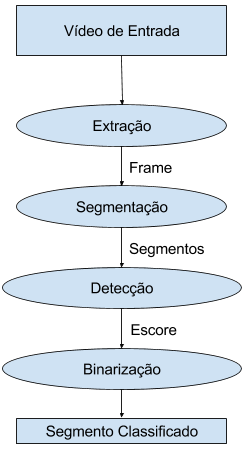
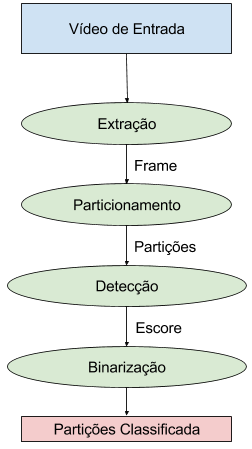
Trocando o termo "segmento" por "partição" em todo o documento, para evitar confusão com o termo "segmentação", conforme já é usado em PDI.

diff --git a/src/capitulo4.tex b/src/capitulo4.tex
@@ -18,9 +18,9 @@ equivalente a uma imagem 2D, e pode ser representada por tensores de dimensões
 \sigla{HWC}{\emph{Height X Width X Channel}, algura X largura X canal} (largura, altura e canais de cor). Todos os frames de um mesmo vídeo geram
 tensores do mesmo tamanho.
 
-O processo “segmentação” toma como entrada uma frame do vídeo e gera múltiplas
-sub-imagens aqui denominados “segmentos”, gerados através de um recorte
-retangular de pixels contíguos. Os segmentos têm dimensões compatíveis com a
+O processo “fatiamento” toma como entrada uma frame do vídeo e gera múltiplas
+sub-imagens aqui denominadas “partições”, geradas através de um recorte
+retangular de pixels contíguos. As partições têm dimensões compatíveis com a
 rede neural que será usada no passo seguinte.
 
 A etapa denominada “rede neural” é, mais especificamente, uma rede neural
@@ -28,32 +28,33 @@ artificial convolucional profunda treinada para modelar uma função escalar cuj
 valor, denominado “escore”, é determinado pela presença e posição, ou não
 presença, de uma placa veicular.
 
-A etapa “binarização” estima, a partir do resultado da rede neural, se um
-segmento possui uma placa de trânsito.
+A etapa “binarização” estima, a partir do resultado da rede neural, se uma
+partição possui uma placa de trânsito.
 
 Este processo envolve algumas decisões que são parte fundamental da atual
 proposta. Elas dizem respeito:
 
 \begin{itemize}
-\item ao tamanho dos segmentos de imagem a serem recortados e, por
+\item ao tamanho das partições de imagem a serem recortadas e, por
 	consequência, ao tamanho da entrada da rede neural;
-\item a escolha do stride dos segmentos da rede neural
+\item a escolha do stride das partições da rede neural
 \item a escolha da função que a rede neural está modelando
 \item a escolha da arquitetura e dos hiperparâmetros da rede neural;
 \end{itemize}
 
-\section{Tamanho dos Segmentos}
-O tamanho dos segmentos definem as dimensões do tensor da rede neural, portanto
+\section{Tamanho das Partições}
+O tamanho das partições definem as dimensões do tensor da rede neural, portanto
 o tamanho do seu “campo visual”.
+
 
 \begin{figure}[!htb]
 	\centering
 	\includegraphics{ex_tres_segmentos.png}
-	\caption{Exemplo de três tamanhos de segmentos}
+	\caption{Exemplo de três tamanhos de partições}
 	\label{fig:ex_tres_segmentos}
-	Em (a) o segmento possui um grande campo visual, porém tem baixa precisão.
+	Em (a) a partição possui um grande campo visual, porém tem baixa precisão.
 	Em (b) há um campo visual muito pequeno para permitir que a rede neural
-	opere corretamente. O terceiro é apropriado, pois é relativamente pequeno e
+	opere corretamente. A terceira é apropriada, pois é relativamente pequena e
 	inclui a placa inteira e vários pixels adicionais, permitindo que a rede
 	neural aprenda o contraste entre placa e o fundo (próprio autor).
 \end{figure}
@@ -66,7 +67,7 @@ o campo visual for muito grande, como na figura \ref{fig:ex_tres_segmentos}a,
 a rede neural terá mais características para usar, mas a precisão da
 localização será muito prejudicada.
 
-De forma geral, as dimensões dos segmentos devem ser minimizados, mas deve-se
+De forma geral, as dimensões das partições devem ser minimizadas, mas deve-se
 garantir que a placa caiba inteira caiba no seu interior, com um pouco de
 sobra. As figuras \ref{fig:ex_tres_segmentos}c e \ref{fig:ex_placa} mostram
 um bom tamanho. A região adicional fora da placa vai servir para a rede
@@ -79,12 +80,12 @@ veículos.
 \begin{figure}[!htb]
 	\centering
 	\includegraphics{ex_placa.png}
-	\caption{Exemplo de segmento com bom tamanho}
+	\caption{Exemplo de partição com bom tamanho}
 	\label{fig:ex_placa}
 	(próprio autor).
 \end{figure}
 
-\section{Strides dos Segmentos}
+\section{Strides das Partições}
 A abordagem que está sendo proposta envolve usar um detector para construir um
 localizador. Uma implementação ingênua desta abordagem seria treinar o detector
 para detectar placas de trânsito que estejam centradas na sua entrada e aplicar
@@ -101,30 +102,30 @@ que ser aplicado $N$ vezes, onde:
 
 Para um detector com dimensões \sigla{HW}{\emph{Height X width}, algura X
 largura} de $40 \times 120$ em uma imagem
-$480 \times 768$ seriam gerados 286.209 segmentos, e cada um deles precisaria
-ser aplicado pelo detector, o que é proibitivo.
+$480 \times 768$ seriam geradas 286.209 partições, e cada uma delas precisaria
+ser aplicada ao detector, o que é proibitivo.
 
 Para resolver este problema propõe-se o uso de um stride de
-$50\% \times 50\%$ do tamanho do segmento. Isso significa que duas amostras
+$50\% \times 50\%$ do tamanho da partição. Isso significa que duas amostras
 consecutivas em linha tem os seus centros a uma distância igual a sua
-largura sobre dois, gerando segmentos como os ilustrados na figura
+largura sobre dois, gerando partições como as ilustradas na figura
 \ref{fig:ex_3_segmentos}.
 
 \begin{figure}[!htb]
 	\centering
 	\includegraphics{ex_3_segmentos.png}
-	\caption{Ilustração de 3 segmentos sucessivos}
+	\caption{Ilustração de 3 partições sucessivas}
 	\label{fig:ex_3_segmentos}
-	Observar que o centro de um segmento está contido no perímetro dos
-	segmentos vizinhos (próprio autor).
+	Observar que o centro de uma partição está contido no perímetro das
+	partições vizinhas (próprio autor).
 \end{figure}
 
-Uma propriedade dessa escolha é que o centro de um segmento de imagem está
-contido no perímetro de todos os segmentos vizinhos. Esta propriedade é
+Uma propriedade dessa escolha é que o centro de uma partição de imagem está
+contido no perímetro de todas as partições vizinhas. Esta propriedade é
 justamente o objetivo do stride de 50\%, conforme será descrito na sessão
 \ref{ses:funcao_a_modelar}.
 
-O número de segmentos na direção da altura será $T_H$, e na largura será
+O número de particões na direção da altura será $T_H$, e na largura será
 $T_W$, sendo:
 
 \begin{equation}
@@ -135,7 +136,7 @@ $T_W$, sendo:
 	T_W=\left\lfloor \frac{2F_2}{D_2-1} \right\rfloor \\
 \end{equation}
 
-E o  número de segmentos a serem classificados será:
+E o  número de partições a serem classificadas será:
 
 \begin{equation}
 	N=\left\lfloor \frac{2F_1}{D_1-1} \right\rfloor \cdot
@@ -144,13 +145,13 @@ E o  número de segmentos a serem classificados será:
 
 Tomando o mesmo caso calculado anteriormente (detector $40 \times 120$ em
 frames $480 \times 768$ sem extensão de borda) com a estratégia proposta
-de segmentação o número de segmentos a serem classificados cai de 286.209
+de particionamento o número de particões a serem classificadas cai de 286.209
 para $24 \cdot 12=288$.
 
 \section{Função a ser Modelada} \label{ses:funcao_a_modelar}
 
 A rede neural vai ser treinada para modelar o valor de uma função $P$ que
-leva um tensor que representa  um segmento da frame à um real no intervalo
+leva um tensor que representa  uma partição da frame à um real no intervalo
 $[0;1]$:
 
 \begin{equation}
@@ -158,54 +159,56 @@ $[0;1]$:
 \end{equation}
 
 O valor dessa função é resultante da presença de uma placa veicular. Devido ao
-fato de que a segmentação será feita com stride maior que 1 não há garantia de
-que a placa estará centralizada, e ainda assim a função precisa identificar que
-ela está presente.
+fato de que o particionamento será feito com \emph{stride} maior que 1 não há
+garantia de que a placa estará centralizada, e ainda assim a função precisa
+identificar que ela está presente.
 
-A função proposta foi construída baseado na forma com que a placa veicular
-passa de um segmento para o segmento vizinho. A função deve possuir as
+A função proposta foi construída baseada na forma com que a placa veicular
+passa de uma partição para a partição vizinha. A função deve possuir as
 seguintes características:
 
 \begin{itemize}
 \item a função é contínua quando uma placa é movida de forma contínua na
 	entrada por qualquer caminho;
-\item quando a placa veicular está no centro de um segmento a função de
-	saída deve ser 1, e quando está no centro do segmento vizinho deve ser 0;
-\item um, e apenas um segmento deve possuir valor 1 como consequência da
-	presença da placa.
+\item quando a placa veicular está no centro de uma partição a função de
+	saída deve ser 1, e quando está no centro da partição vizinha deve ser 0;
+\item um, e apenas uma partição deve possuir valor 1 como consequência da
+	presença da placa, exceto nos pontos críticos, na vizinhança dos quais a
+	função é menor que 1.
 \end{itemize}
 
 A figura \ref{fig:placa_movida_entre_segmentos} ilustra os pontos principais
-quando uma placa é movida horizontalmente entre dois segmentos.
+quando uma placa é movida horizontalmente entre duas partições.
 
 \begin{figure}[!htb]
 	\centering
 	\includegraphics{placa_movida_entre_segmentos.png}
-	\caption{Placa veicular sendo movida entre dois segmentos}
+	\caption{Placa veicular sendo movida entre duas partições}
 	\label{fig:placa_movida_entre_segmentos}
 	Ilustração dos pontos críticos para a definição da função a ser modelada
-	pela rede neural, mostrando dois segmentos vizinhos, um pintado de verde e
-	o outro amarelo com borda pontilhada. Em (a) a placa está centrada no
-	segmento da esquerda e no perímetro do segmento da direita.
-	Em (b) o centro da placa está no meio caminho entre os centros dos dois
-	segmentos. Em (c) o centro da placa está no centro do segmento da direita e
-	perímetro do segmento da esquerda (próprio autor).
+	pela rede neural, mostrando duas partições vizinhas, uma pintada de verde e
+	o outro amarelo com borda pontilhada. Em (a) a placa está centrada na
+	partição da esquerda e no perímetro da partição da direita.
+	Em (b) o centro da placa está no meio caminho entre os centros dos duas
+	partições. Em (c) o centro da placa está no centro da partição da direita e
+	perímetro da partição da esquerda (próprio autor).
 \end{figure}
 
 A figura \ref{fig:func_a_modelar_2_seg} mostra o valor da função para
-dois segmentos vizinhos a medida que a placa é movida. Pode-se observar apenas
-um dos segmentos possui valor 1 por vez, exceto em um ponto. Também observa-se
-que quando a placa está centrada em um segmento a função possui valor zero
-no outro segmento.
+duas partições vizinhas a medida que a placa é movida. Pode-se observar apenas
+um das partições possui valor 1 por vez, exceto no ponto cuja vizinhança é
+menor que 1. Também observa-se
+que quando a placa está centrada em uma partição, a função possui valor zero
+na outra partição.
 
 \begin{figure}[!htb]
 	\centering
 	\includegraphics{func_a_modelar_2_seg.png}
-	\caption{Valor da função em dois segmentos a medida que a placa se move
-	entre eles}
+	\caption{Valor da função em duas partições a medida que a placa se move
+	entre elas}
 	\label{fig:func_a_modelar_2_seg}
-	Observa-se que valor da saída da função para dois segmentos a medida que a
-	placa é movida do centro do segmento 1 (o da esquerda) para o segmento 2 (o
+	Observa-se que valor da saída da função para duas partições a medida que a
+	placa é movida do centro da partição 1 (o da esquerda) para a partição 2 (a
 	da direita) (próprio autor).
 \end{figure}
 
@@ -217,14 +220,14 @@ no outro segmento.
 	Observa-se que o valor da variável dependente a em medida que a placa
 	é deslocada desde $-\infty$ até $+\infty$ da esquerda para a direita,
 	enquanto a mesma está centrada na altura. A abscissa é a distância
-	normalizada entre os centros do segmento e da placa (próprio autor).
+	normalizada entre os centros da partição e da placa (próprio autor).
 \end{figure}
 
 Na figura \ref{fig:func_a_modelar_1_seg} observa-se o valor de uma função
 quando a placa está alinhada na altura e é deslocada horizontalmente. Como
 a abscissa é a distância normalizada entre os centros obtém-se o valor 0,5
-quando o centro da placa está a uma distância igual a metade do tamanho do
-segmento para a direita, como ilustrado na figura
+quando o centro da placa está a uma distância igual a metade do tamanho da
+partição para a direita, como ilustrado na figura
 \ref{fig:placa_movida_entre_segmentos}c.
 
 No caso de uma placa alinhada na direção $y$ (distância em $y$ é 0), e sendo
@@ -275,7 +278,7 @@ direção o valor da função é 0.
 	\caption{Gráfico 3D da função à modelar}
 	\label{fig:func_a_modelar_3d}
 	Plot da função que a rede neural deve modelar. As abscissas representam a
-	distância normalizada entre o centro do segmento e da placa em cada direção
+	distância normalizada entre o centro da partição e da placa em cada direção
 	(próprio autor).
 \end{figure}
 
@@ -287,7 +290,7 @@ escolhida de forma a balancear desempenho de classificação com tempo de
 propagação. Se a rede neural requerer muitas operações pode aumentar o
 desempenho de classificação, mas o tempo de processamento vai aumentar.
 Idealmente a rede neural deve ser restrita a um tamanho que permita que todos
-os segmentos da imagem sejam classificados de forma que o sistema como um todo
+as partições da imagem sejam classificadas de forma que o sistema como um todo
 entregue a taxa de frames desejada para a resolução do vídeo necessária e
 hardware disponíveis onde a solução vai ser implantada.
 

diff --git a/src/capitulo5.tex b/src/capitulo5.tex
@@ -54,10 +54,10 @@ biblioteca neuroph, devido a familiaridade e ao uso da linguagem java. A
 solução foi totalmente implementada conforme arquitetura ilustrada na figura
 \ref{fig:cap5_arquit_global}.
 
-Essa implementação usava imagens em tons de cinza e segmentos com dimensões HW
+Essa implementação usava imagens em tons de cinza e partições com dimensões HW
 $32 \times 100$ aplicadas em uma rede neural totalmente conectada com 3200
-entradas e uma saída. A segmentação era feita  usando stride de 100\%, ou
-seja, dois segmentos vizinhos tinham o perímetro de um dos seus lados em comum.
+entradas e uma saída. O particionamento era feita  usando stride de 100\%, ou
+seja, duas partições vizinhas tinham o perímetro de um dos seus lados em comum.
 
 Esta biblioteca foi logo descartada porque o tempo de treinamento era muito
 longo, impedindo a busca eficiente de configuração das camadas ocultas que
@@ -93,7 +93,7 @@ com uma saída.
 Quando o player era usado com as redes neurais resultantes desse treinamento o
 resultado era muito ruim, com quantidade muito grande de falsos positivos.
 
-O esquema de segmentação das imagens foi mudado de 100\% para 50\%, que é o
+O esquema de particionamento das imagens foi mudado de 100\% para 50\%, que é o
 valor usado agora. A função que a rede neural modela foi modificada
 várias vezes, mas
 o resultado final, conforme visto no player, continuava ruim.
@@ -341,8 +341,8 @@ $40 \times 120$ centrada na placa do veículo, como ilustrado na figura
 	\includegraphics{cap5_regiao_coleta_amostras.png}
 	\caption{Região onde amostras são coletadas}
 	\label{fig:cap5_regiao_coleta_amostras}
-	Esta região delimita os centros dos Segmentos, então pixels fora dessa
-	região são coletados.  Segmentos centrados dentro da região delimitada são
+	Esta região delimita os centros das partições, então pixels fora dessa
+	região são coletados. Partições centrados dentro da região delimitada são
 	coletados de 4 em 4 pixels, sendo que cada uma dessas regiões é deslocada 2
 	pixels para a direita ou para a esquerda. Em verde estão marcados três
 	pontos, a, b e c, que serão atribuídos respectivamente aos \emph{labels} 0,
@@ -390,9 +390,9 @@ comparação é:
 	d_C=\frac{1}{N} \sum_{n=1}^N \sqrt{\left| R_C [n] -I_C [n] \right|}
 \end{equation}
 
-Onde $R_C[n]$ é o valor do canal de cor “C” do n-ésimo píxel do segmento de
-referência, e $I_C[n]$ é o mesmo canal do n-ésimo pixel do
-segmento que está sendo testado. Quando o valor da média dessa métrica
+Onde $R_C[n]$ é o valor do canal de cor “C” do n-ésimo píxel da partição de
+referência, e $I_C[n]$ é o mesmo canal do n-ésimo pixel da
+partição que está sendo testada. Quando o valor da média dessa métrica
 para os três canais é menor que $\sqrt{8}$ as imagens são consideradas
 semelhantes, e a amostra é recusada. Foram
 testadas métricas, como média do módulo da diferença, e média da diferença
@@ -688,15 +688,15 @@ As placas dos mesmos estão sendo destacadas.
 
 O software implementa o método de classificação proposto nesta monografia por
 completo. O método de binarização é um limiar simples em 0,75. Este valor
-permite que quando a placa está transitando de um segmento para outro ambas as
-placas serão iluminadas momentaneamente antes da placa que ficou para trás
+permite que quando a placa está transitando de uma partição para outra, ambas
+as placas serão iluminadas momentaneamente antes da placa que ficou para trás
 apagar.
 
 Não foi implementado nenhum método para usar a correlação temporal das
 informações coletadas.
 
 Para o \emph{video1.avi} a rede neural é executada 288 vezes para frame do
-vídeo, sendo que uma linha completa contendo 12 segmentos é fornecido para a
+vídeo, sendo que uma linha completa contendo 12 partições é fornecido para a
 rede neural por vez.
 
 O software é capaz de operar em qualquer vídeo que possa ser lido pelo

diff --git a/src/capitulo2.tex b/src/capitulo2.tex
@@ -534,7 +534,7 @@ da convolução, o número de filtros e o modo de operação nas bordas. A figur
 	\caption{Convolução sendo aplicada em uma imagem RGB}
 	\label{fig:ex_cnn_img}
 	Como a imagem possui 3 canais o filtro será $3 \times 3 \times 3$.
-	Um segmento da imagem original com o mesmo tamanho do filtro,
+	Uma partição da imagem original com o mesmo tamanho do filtro,
 	$3 \times 3 \times 3$ é extraído da imagem, e um
 	produto interno é realizado entre os dois, resultando em um escalar. Este
 	escalar é armazenado no tensor de saída nas coordenadas corretas. A
